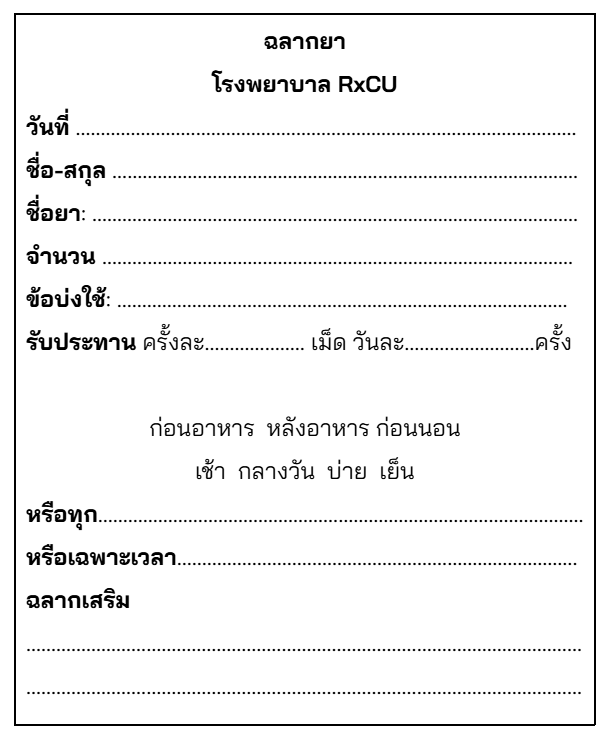
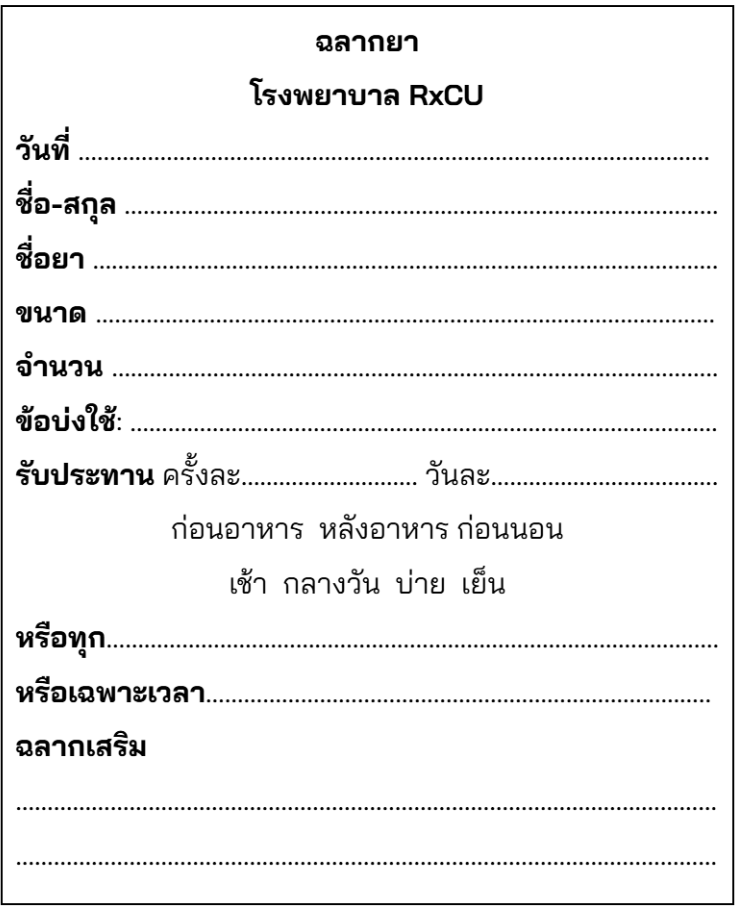
feat(label): replace drug label template image with updated RxCU template and bust cache

diff --git a/scratchpad.js b/scratchpad.js
@@ -34,7 +34,7 @@
   };
 
   const LAYOUT_STORAGE_KEY = 'ple_ospe_scratchpad_layout_v2';
-  const DRUG_LABEL_IMG_SRC = 'rxcu-drug-label-template.png';
+  const DRUG_LABEL_IMG_SRC = 'rxcu-drug-label-template.png?v=1791120874852';
 
   const Scratchpad = {
     initialized: false,
